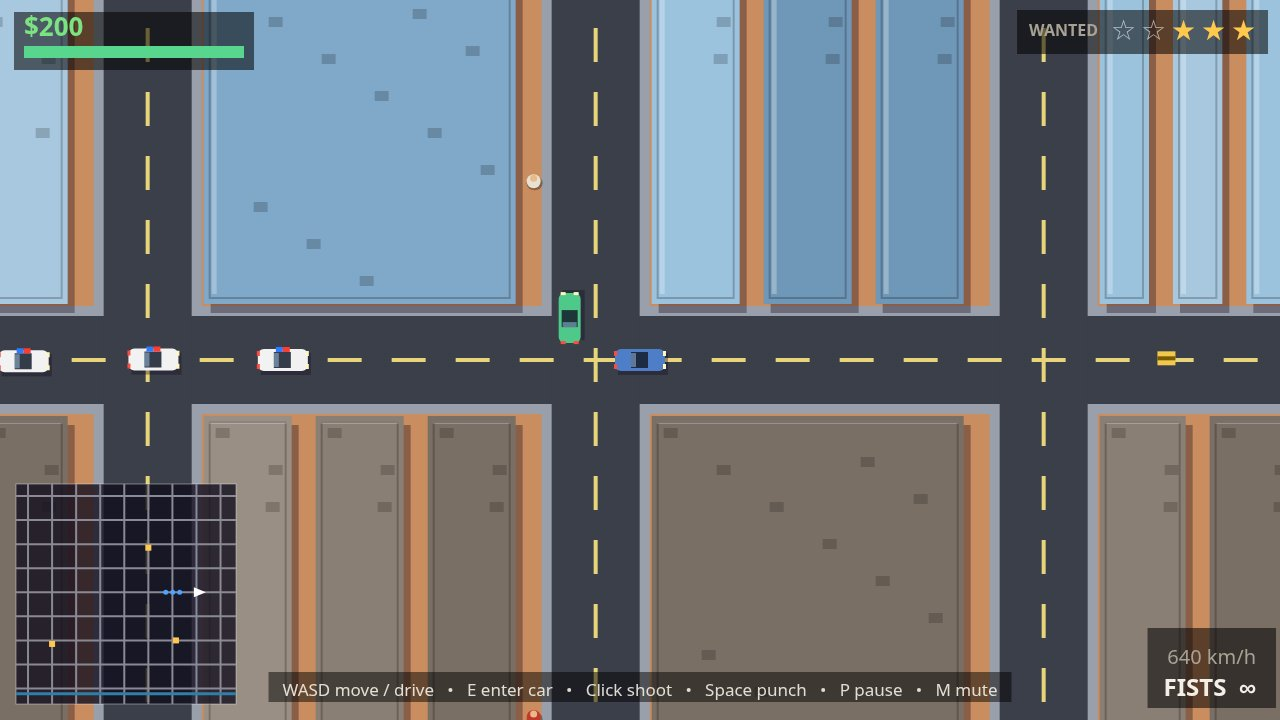
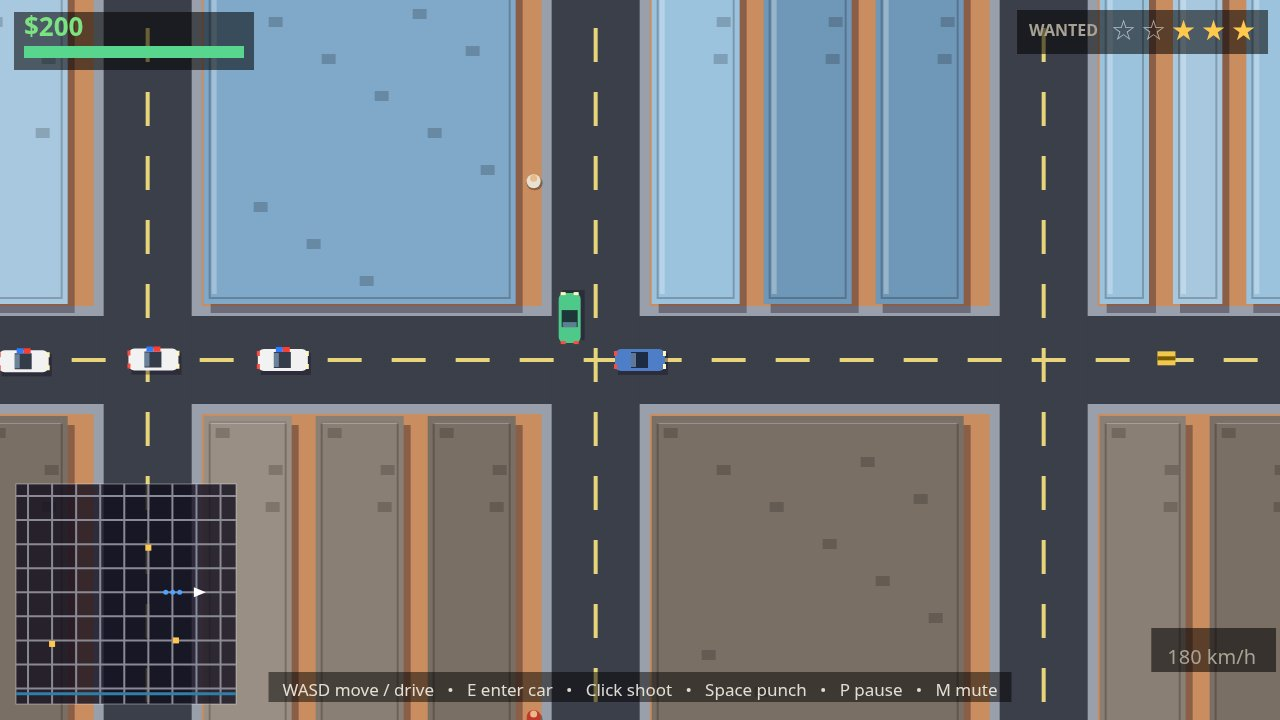
Fix HUD speed readout scale
Car speed is px/s (max 640) but the HUD printed it raw as km/h, so the
chase shot read an absurd 640 km/h. Scale it so full speed reads 180
km/h (clamped), and hide the weapon readout while driving.

Changed region(s): [[0.875, 0.8861, 1.0, 1.0]]

diff --git a/game/src/render.js b/game/src/render.js
@@ -4,7 +4,7 @@
 // in logical view space. Colours come from config's PALETTE where it defines them;
 // every colour has a sun-soaked fallback so a palette gap never blanks the frame.
 
-import { FONT, PALETTE, VIEW, WORLD } from './config.js';
+import { CAR, FONT, PALETTE, VIEW, WORLD } from './config.js';
 
 export const SCREEN_TITLE = 'title';
 export const SCREEN_PLAY = 'play';
@@ -526,21 +526,28 @@ export function createRenderer(canvas) {
       text(ui.message, VIEW_W / 2, 90, 22, C.accent, 'center', 'bold');
     }
     drawMinimap(state);
-    // Weapon + ammo and speed, bottom-right, on a dark plate so road markings
-    // never show through the text.
-    const weapon = (player.weapon || 'fists').toUpperCase();
-    const ammo = player.weapon === 'fists' ? '∞' : String(player.ammo || 0);
-    const weaponLabel = weapon + '  ' + ammo;
-    ctx.font = font(24, 'bold');
-    const weaponW = ctx.measureText(weaponLabel).width;
+    // Bottom-right HUD, on a dark plate so road markings never show through
+    // the text. Car speed is px/s (CAR.maxSpeed is full speed); show it as a
+    // road speed with full speed at 180 km/h, not the raw px/s number. The
+    // weapon readout is hidden while driving — fists need no HUD slot there.
     const driving = !player.onFoot && player.car;
-    const plateTop = driving ? VIEW_H - 92 : VIEW_H - 60;
-    ctx.fillStyle = C.healthBg;
-    ctx.fillRect(VIEW_W - 24 - weaponW - 16, plateTop, weaponW + 36, VIEW_H - 12 - plateTop);
-    text(weaponLabel, VIEW_W - 24, VIEW_H - 24, 24, C.text, 'right', 'bold');
     if (driving) {
-      const speed = Math.round(Math.abs(player.car.speed || 0));
-      text(speed + ' km/h', VIEW_W - 24, VIEW_H - 56, 20, C.muted, 'right');
+      const kmh = Math.min(180, Math.round(Math.abs(player.car.speed || 0) * 180 / (CAR.maxSpeed || 640)));
+      const speedLabel = kmh + ' km/h';
+      ctx.font = font(20);
+      const speedW = ctx.measureText(speedLabel).width;
+      ctx.fillStyle = C.healthBg;
+      ctx.fillRect(VIEW_W - 24 - speedW - 16, VIEW_H - 92, speedW + 36, 44);
+      text(speedLabel, VIEW_W - 24, VIEW_H - 56, 20, C.muted, 'right');
+    } else {
+      const weapon = (player.weapon || 'fists').toUpperCase();
+      const ammo = player.weapon === 'fists' ? '∞' : String(player.ammo || 0);
+      const weaponLabel = weapon + '  ' + ammo;
+      ctx.font = font(24, 'bold');
+      const weaponW = ctx.measureText(weaponLabel).width;
+      ctx.fillStyle = C.healthBg;
+      ctx.fillRect(VIEW_W - 24 - weaponW - 16, VIEW_H - 60, weaponW + 36, 48);
+      text(weaponLabel, VIEW_W - 24, VIEW_H - 24, 24, C.text, 'right', 'bold');
     }
     // Controls hint, fading out over the first seconds of play.
     if (time < 12) {
